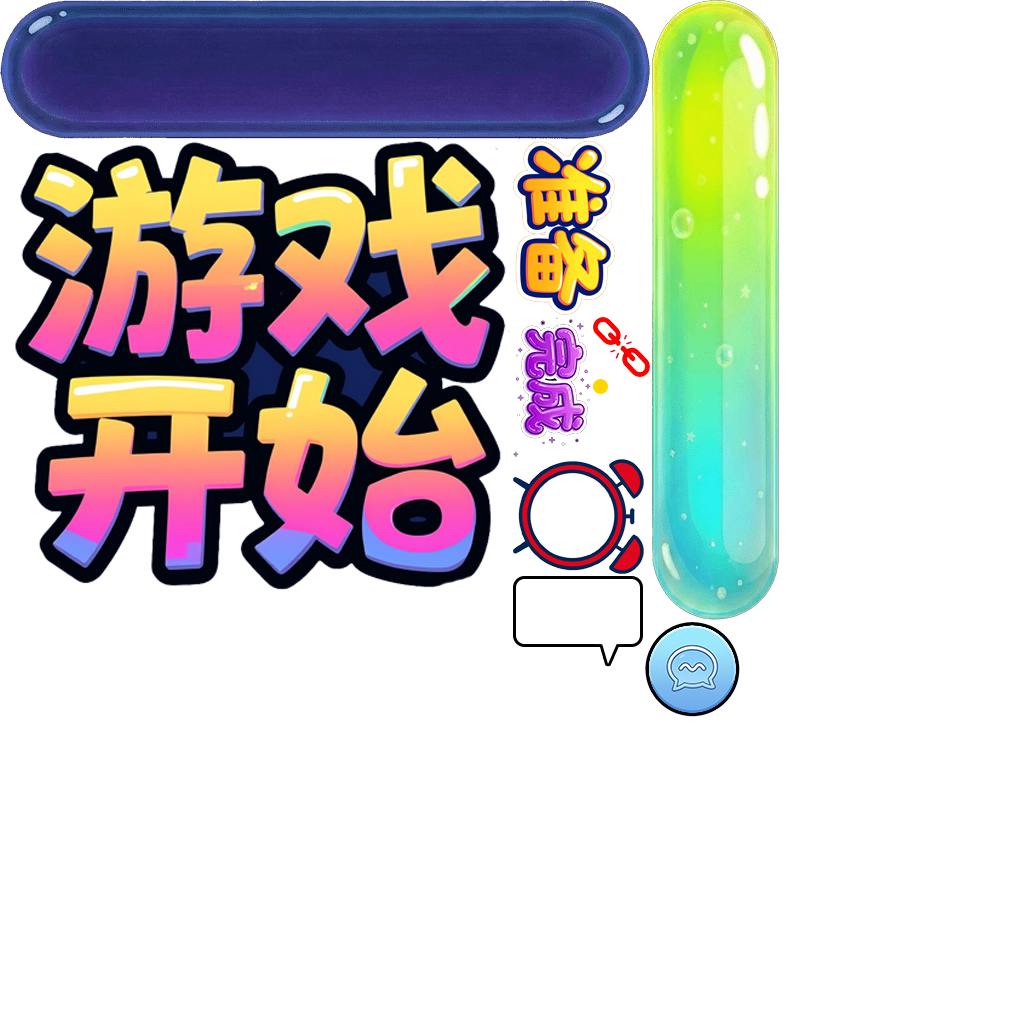
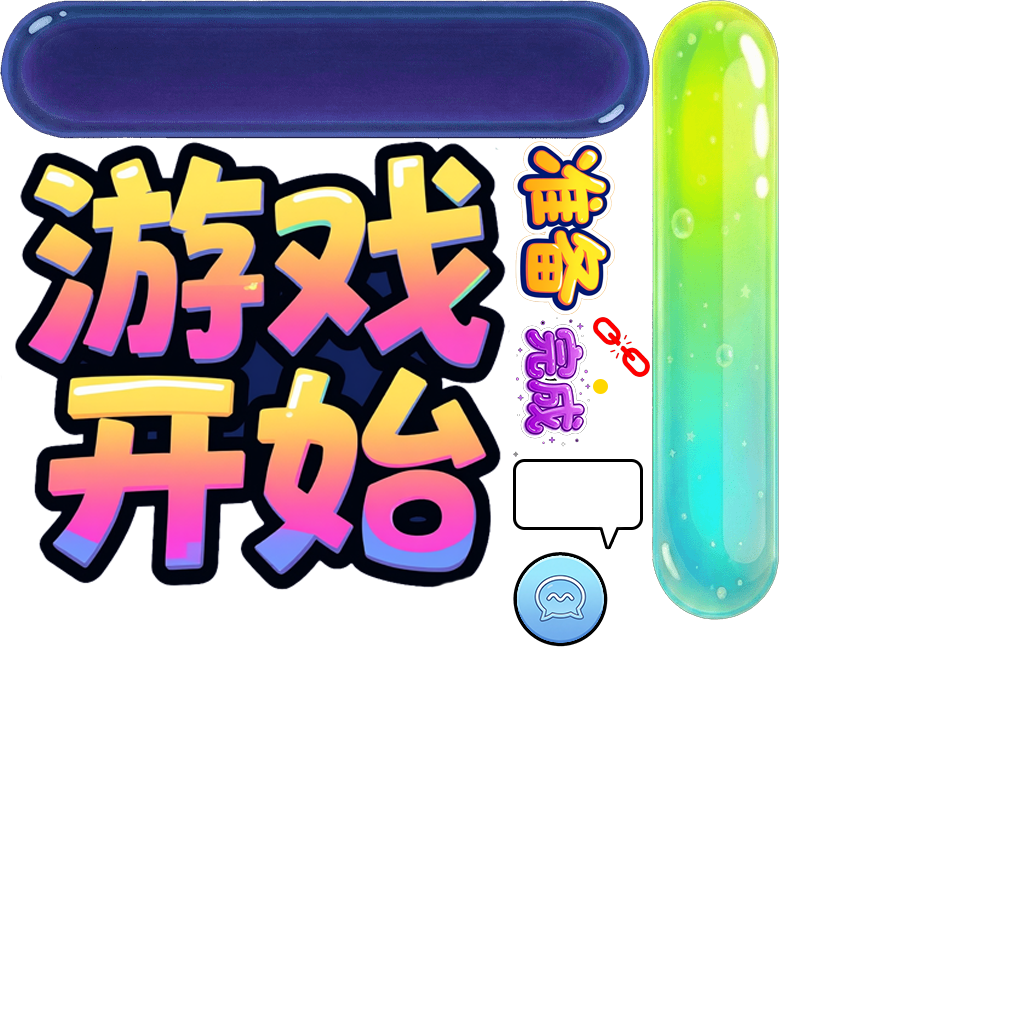
refactor(clock): 替换并优化倒计时组件为CompTimeLeft
- 删除旧的FGUICompClock及其视图实现CompClock
- 新增FGUICompTimeLeft及其视图实现CompTimeLeft，支持倒计时进度条显示
- 修改CompGameMain逻辑，使用CompTimeLeft替代CompClock组件
- 调整游戏主组件FGUICompGameMain中对应组件引用及索引位置
- 更新资源文件，移除CompClock相关，调整UI组件名称与属性
- 修正游戏时钟逻辑，倒计时为大于0才显示，结束时隐藏并停止计时
- 更新图集元数据，适配新UI尺寸与布局

Changed region(s): [[0.5, 0.4375, 0.7188, 0.7188]]

diff --git a/assets/scripts/fgui/game10002/FGUICompGameMain.ts b/assets/scripts/fgui/game10002/FGUICompGameMain.ts
@@ -2,12 +2,12 @@
 
 import { assetManager, AssetManager } from "cc";
 import * as fgui from "fairygui-cc";
-import FGUICompClock from "./FGUICompClock";
 import FGUICompPlayers from "./FGUICompPlayers";
 import FGUICompMap from "./FGUICompMap";
 import FGUICompPlayerHead from "./FGUICompPlayerHead";
 import FGUICompGameStartAct from "./FGUICompGameStartAct";
 import FGUICompRoundAct from "./FGUICompRoundAct";
+import FGUICompTimeLeft from "./FGUICompTimeLeft";
 
 import { PackageManager } from "../../frameworks/PackageManager";
 
@@ -18,7 +18,6 @@ export default class FGUICompGameMain extends fgui.GComponent {
 	public UI_BTN_DISBAND:fgui.GButton;
 	public UI_BTN_BACK:fgui.GButton;
 	public UI_BTN_INVITE:fgui.GButton;
-	public UI_COMP_CLOCK:FGUICompClock;
 	public UI_COMP_PLAYERS:FGUICompPlayers;
 	public UI_COMP_MAP:FGUICompMap;
 	public UI_COMP_SELFPLAYER:FGUICompPlayerHead;
@@ -32,6 +31,7 @@ export default class FGUICompGameMain extends fgui.GComponent {
 	public UI_TXT_PROGRESS:fgui.GTextField;
 	public UI_COMP_ROUND_ACT:FGUICompRoundAct;
 	public UI_BTN_TALK:fgui.GButton;
+	public UI_COMP_CLOCK:FGUICompTimeLeft;
 	public static URL:string = "ui://2zsfe53xln74p";
 
 	public static packageName:string = "game10002";
@@ -80,25 +80,25 @@ export default class FGUICompGameMain extends fgui.GComponent {
 		this.UI_BTN_BACK.onClick(this.onBtnBack, this);
 		this.UI_BTN_INVITE = <fgui.GButton>(this.getChildAt(2));
 		this.UI_BTN_INVITE.onClick(this.onBtnInvite, this);
-		this.UI_COMP_CLOCK = <FGUICompClock>(this.getChildAt(3));
-		this.UI_COMP_PLAYERS = <FGUICompPlayers>(this.getChildAt(4));
-		this.UI_COMP_MAP = <FGUICompMap>(this.getChildAt(5));
-		this.UI_COMP_SELFPLAYER = <FGUICompPlayerHead>(this.getChildAt(6));
-		this.UI_BTN_SURE = <fgui.GButton>(this.getChildAt(7));
+		this.UI_COMP_PLAYERS = <FGUICompPlayers>(this.getChildAt(3));
+		this.UI_COMP_MAP = <FGUICompMap>(this.getChildAt(4));
+		this.UI_COMP_SELFPLAYER = <FGUICompPlayerHead>(this.getChildAt(5));
+		this.UI_BTN_SURE = <fgui.GButton>(this.getChildAt(6));
 		this.UI_BTN_SURE.onClick(this.onBtnSure, this);
-		this.UI_BTN_CHANGE = <fgui.GButton>(this.getChildAt(8));
+		this.UI_BTN_CHANGE = <fgui.GButton>(this.getChildAt(7));
 		this.UI_BTN_CHANGE.onClick(this.onBtnChange, this);
-		this.UI_BTN_CONTINUE = <fgui.GButton>(this.getChildAt(9));
+		this.UI_BTN_CONTINUE = <fgui.GButton>(this.getChildAt(8));
 		this.UI_BTN_CONTINUE.onClick(this.onBtnContinue, this);
-		this.UI_BTN_READY = <fgui.GButton>(this.getChildAt(10));
+		this.UI_BTN_READY = <fgui.GButton>(this.getChildAt(9));
 		this.UI_BTN_READY.onClick(this.onBtnReady, this);
-		this.UI_COMP_GAME_START = <FGUICompGameStartAct>(this.getChildAt(12));
-		this.UI_TXT_ROOMID = <fgui.GTextField>(this.getChildAt(14));
-		this.UI_TXT_RULE = <fgui.GTextField>(this.getChildAt(15));
-		this.UI_TXT_PROGRESS = <fgui.GTextField>(this.getChildAt(16));
-		this.UI_COMP_ROUND_ACT = <FGUICompRoundAct>(this.getChildAt(20));
-		this.UI_BTN_TALK = <fgui.GButton>(this.getChildAt(21));
+		this.UI_COMP_GAME_START = <FGUICompGameStartAct>(this.getChildAt(11));
+		this.UI_TXT_ROOMID = <fgui.GTextField>(this.getChildAt(13));
+		this.UI_TXT_RULE = <fgui.GTextField>(this.getChildAt(14));
+		this.UI_TXT_PROGRESS = <fgui.GTextField>(this.getChildAt(15));
+		this.UI_COMP_ROUND_ACT = <FGUICompRoundAct>(this.getChildAt(19));
+		this.UI_BTN_TALK = <fgui.GButton>(this.getChildAt(20));
 		this.UI_BTN_TALK.onClick(this.onBtnTalk, this);
+		this.UI_COMP_CLOCK = <FGUICompTimeLeft>(this.getChildAt(21));
 	}
 	scheduleOnce(callback: () => void, delay: number):void{};
 	unscheduleAllCallbacks():void{};

diff --git a/assets/scripts/games/game10002/view/game/comp/CompTimeLeft.ts b/assets/scripts/games/game10002/view/game/comp/CompTimeLeft.ts
@@ -1,0 +1,129 @@
+import { ViewClass } from "db://assets/scripts/frameworks/Framework";
+import FGUICompTimeLeft from "../../../../../fgui/game10002/FGUICompTimeLeft";
+import * as fgui from "fairygui-cc";
+
+/**
+ * @class CompTimeLeft
+ * @description 游戏剩余时间组件，显示倒计时进度条
+ * @category 游戏 10002 - 连连看
+ */
+@ViewClass()
+export class CompTimeLeft extends FGUICompTimeLeft {
+    /**
+     * @property {number} _remainingTime
+     * @description 剩余时间（秒）
+     * @private
+     */
+    private _remainingTime: number = 0;
+
+    /**
+     * @property {number} _totalTime
+     * @description 总时间（秒）
+     * @private
+     */
+    private _totalTime: number = 0;
+
+    /**
+     * @property {(() => void) | null} _scheduleId
+     * @description 计时器ID
+     * @private
+     */
+    private _scheduleId: (() => void) | null = null;
+
+    protected onConstruct() {
+        super.onConstruct();
+        this._scheduleId = this.tick.bind(this);
+    }
+
+    /**
+     * @method tick
+     * @description 每秒更新一次倒计时
+     * @private
+     */
+    tick() {
+        if (this._remainingTime > 0) {
+            this._remainingTime--;
+            this.updateDisplay();
+        } else {
+            this.stop();
+        }
+    }
+
+    /**
+     * @method updateDisplay
+     * @description 更新显示（进度条和文本）
+     * @private
+     */
+    private updateDisplay(): void {
+        // 更新时间文本
+        if (this.UI_TXT_TIME_MSG) {
+            this.UI_TXT_TIME_MSG.text = this._remainingTime.toString();
+        }
+
+        // 更新进度条
+        if (this.UI_IMG_BAR) {
+            const progress = this._totalTime > 0 ? this._remainingTime / this._totalTime : 0;
+            this.UI_IMG_BAR.fillAmount = progress;
+        }
+    }
+
+    /**
+     * @method start
+     * @description 开始倒计时
+     * @param {number} remainingTime - 剩余时间（秒）
+     * @param {number} totalTime - 总时间（秒）
+     */
+    start(remainingTime: number, totalTime: number): void {
+        this._remainingTime = remainingTime;
+        this._totalTime = totalTime;
+        this.updateDisplay();
+        
+        // 确保计时器在运行
+        if (this._scheduleId) {
+            this.unschedule(this._scheduleId);
+            this.schedule(this._scheduleId, 1);
+        }
+    }
+
+    /**
+     * @method stop
+     * @description 停止倒计时
+     */
+    stop(): void {
+        if (this._scheduleId) {
+            this.unschedule(this._scheduleId);
+        }
+        this._remainingTime = 0;
+        this.updateDisplay();
+    }
+
+    /**
+     * @method reset
+     * @description 重置组件
+     */
+    reset(): void {
+        this.stop();
+        this._totalTime = 0;
+        if (this.UI_IMG_BAR) {
+            this.UI_IMG_BAR.fillAmount = 1;
+        }
+        if (this.UI_TXT_TIME_MSG) {
+            this.UI_TXT_TIME_MSG.text = "";
+        }
+    }
+
+    protected onEnable(): void {
+        super.onEnable();
+        if (this._remainingTime > 0 && this._scheduleId) {
+            this.schedule(this._scheduleId, 1);
+        }
+    }
+
+    protected onDisable(): void {
+        super.onDisable();
+        if (this._scheduleId) {
+            this.unschedule(this._scheduleId);
+        }
+    }
+}
+fgui.UIObjectFactory.setExtension(CompTimeLeft.URL, CompTimeLeft);

diff --git a/assets/scripts/games/game10002/view/game/comp/CompGameMain.ts b/assets/scripts/games/game10002/view/game/comp/CompGameMain.ts
@@ -13,7 +13,7 @@ import {
     ROOM_PLAYER_INDEX,
 } from "../../../data/InterfaceGameConfig";
 import * as fgui from "fairygui-cc";
-import { CompClock } from "./CompClock";
+import { CompTimeLeft } from "./CompTimeLeft";
 import { PopMessageView } from "../../../../../view/common/PopMessageView";
 import { ENUM_POP_MESSAGE_TYPE, RICH_TYPE } from "../../../../../datacenter/InterfaceConfig";
 import { FW_EVENT_NAMES } from "../../../../../frameworks/config/Config";
@@ -319,16 +319,16 @@ export class CompGameMain extends FGUICompGameMain {
      * @param clock 倒计时时间
      */
     showClock(bshow: boolean, clock?: number): void {
+        const compTimeLeft = this.UI_COMP_CLOCK as CompTimeLeft;
         if (bshow) {
-            if (clock && clock > 99) {
-                clock = 99;
+            if (clock && clock > 0) {
+                const totalTime = GameData.instance.playingStepTime || clock;
+                compTimeLeft.visible = true;
+                compTimeLeft.start(clock, totalTime);
             }
-            const compClock = this.UI_COMP_CLOCK as CompClock;
-            compClock.visible = true;
-            compClock.start(clock || 10);
         } else {
-            const compClock = this.UI_COMP_CLOCK as CompClock;
-            compClock.visible = false;
+            compTimeLeft.visible = false;
+            compTimeLeft.stop();
         }
     }
 
@@ -431,7 +431,11 @@ export class CompGameMain extends FGUICompGameMain {
      * @param data 时钟数据
      */
     onSvrGameClock(data: any): void {
-        this.showClock(true, data.time);
+        if (data.time > 0) {
+            this.showClock(true, data.time);
+        } else {
+            this.showClock(false);
+        }
     }
 
     // ============================================
